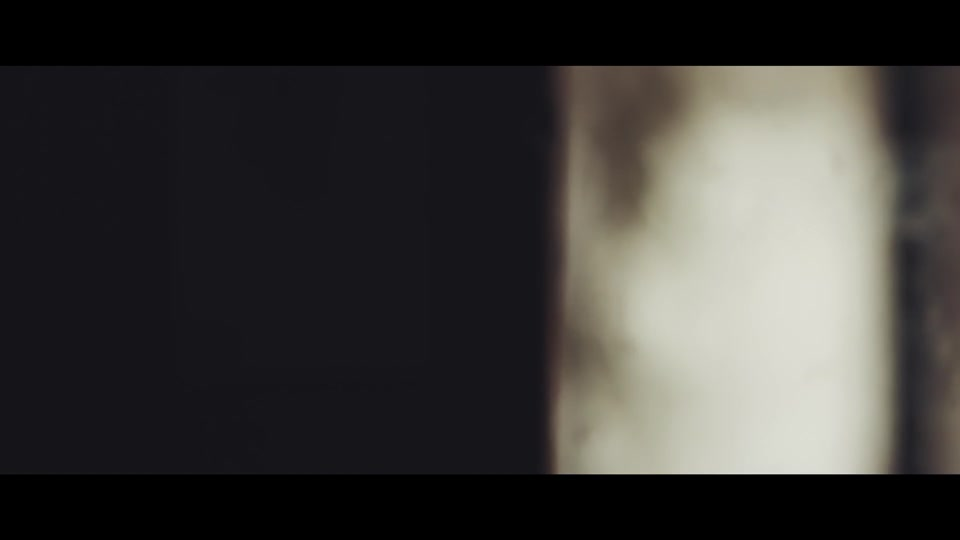
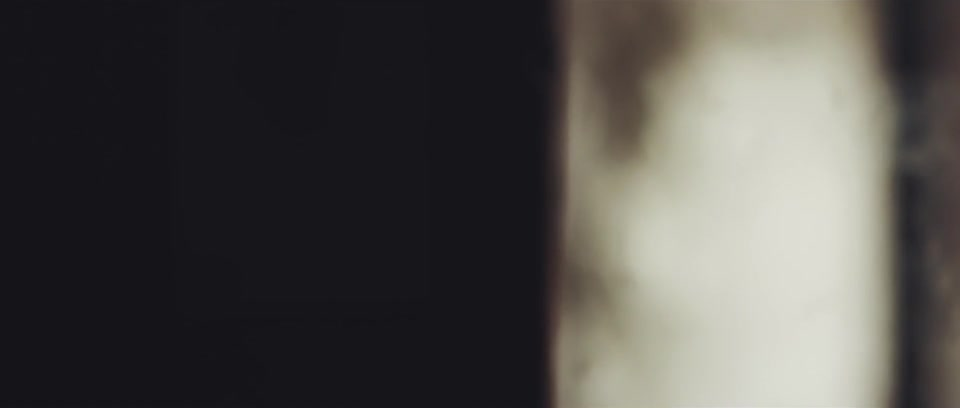
fix(source-archive): crop letterboxed footage

Changed region(s): [[0.0, 0.0, 1.0, 0.2941], [0.0, 0.7059, 1.0, 1.0], [0.6562, 0.3824, 0.6875, 0.4118]]

diff --git a/data/source-library-youtube-data.js b/data/source-library-youtube-data.js
@@ -8755,7 +8755,7 @@ window.SOURCE_LIBRARY = (window.SOURCE_LIBRARY || []).concat([
   {
     "id": "478",
     "title": "Reflection From A Piano",
-    "clip": "478_reflection-from-a-piano.mp4",
+    "clip": "478_reflection-from-a-piano-cropped.mp4",
     "thumb": "478_reflection-from-a-piano.jpg",
     "media": "b2",
     "source": "local:macbookpro/077-reflection-from-a-piano.ts",
@@ -9498,7 +9498,7 @@ window.SOURCE_LIBRARY = (window.SOURCE_LIBRARY || []).concat([
   {
     "id": "509",
     "title": "Wooden Hammer Hitting Metal Pipe",
-    "clip": "509_wooden-hammer-hitting-metal-pipe.mp4",
+    "clip": "509_wooden-hammer-hitting-metal-pipe-cropped.mp4",
     "thumb": "509_wooden-hammer-hitting-metal-pipe.jpg",
     "media": "b2",
     "source": "local:macbookpro/108-wooden-hammer-hitting-metal-pipe.ts",
@@ -11099,7 +11099,7 @@ window.SOURCE_LIBRARY = (window.SOURCE_LIBRARY || []).concat([
   {
     "id": "576",
     "title": "Abstract River Of Blue Surrounded By Multi Colored Bubbles",
-    "clip": "576_abstract-river-of-blue-surrounded-by-multi-colored-bubbles.mp4",
+    "clip": "576_abstract-river-of-blue-surrounded-by-multi-colored-bubbles-cropped.mp4",
     "thumb": "576_abstract-river-of-blue-surrounded-by-multi-colored-bubbles.jpg",
     "media": "b2",
     "source": "local:macbookpro/175-abstract-river-of-blue-surrounded-by-multi-colored-bubbles.ts",
